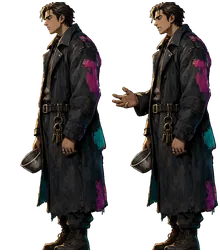
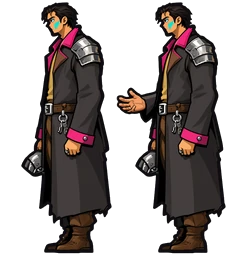
Signal Tower encounters and the Cell guard in the new look (FAL-951) (#160)
* Signal Tower encounters and the Cell guard in the FAL-792 look (FAL-951)

Rollout batch 2 of 5: st-coffee-cart, st-hush-water, st-live-wires,
st-mast-climber, st-numbers-station, st-permit-booth and cell/guard,
every frame. Idles redrawn in the approved ink-and-cel look; talk/bust
redraw only the moving arm on top of the new idle. Frame ids and anims
unchanged; x/w/h/ox/oy re-measured. README updated.

* Signal Tower: live-wires cabinet and a slim mast after the audit (FAL-951)

Live-wires: the junction box is a dark rust iron cabinet again, with the
inked access panel and a flat spark star. Only the box was re-rendered;
the man, cable and arms keep their pixels. Mast-climber: the mast is built
on the CPU at the old width behind the rendered climber, with closed,
filled shapes. Only x, w, h, ox and oy changed in the mast JSON.

---------

diff --git a/assets/journey/README.md b/assets/journey/README.md
@@ -117,13 +117,13 @@ move. Their dialogue portraits are in `assets/portraits/` (see its README).
 | `cast/noma.webp` + `noma.json` | idle 74×220, talk 74×220 | idle [idle] (1), talk [idle, talk] (4, loop) | feet point | 14,582 |
 | `encounters/cell/backdrop.webp` | opaque 864×256 | static | strip origin (0, 0) | 25,926 |
 | `encounters/cell/bars.webp` + `.json` | shut 864×256, loose 864×256, open 864×256 | shut/loose/open, one frame each (1, once) | feet point | 360,974 |
-| `encounters/cell/guard.webp` + `.json` | idle 106×248, talk 106×248 | idle [idle] (1), talk [idle, talk] (4, loop) | feet point | 15,540 |
-| `encounters/st-coffee-cart.webp` + `.json` | idle 203×248, talk 203×248 | idle [idle] (1), talk [idle, talk] (4, loop) | feet point | 24,468 |
-| `encounters/st-hush-water.webp` + `.json` | idle 174×248, talk 174×248, bust 174×248 | idle [idle] (1), talk [idle, talk] (4, loop), bust [bust] (1, once) | feet point | 30,292 |
-| `encounters/st-live-wires.webp` + `.json` | idle 316×248, talk 316×248, bust 316×248 | idle [idle] (1), talk [idle, talk] (4, loop), bust [bust] (1, once) | feet point | 47,693 |
-| `encounters/st-mast-climber.webp` + `.json` | idle 144×248, talk 144×248 | idle [idle] (1), talk [idle, talk] (4, loop) | feet point | 27,899 |
-| `encounters/st-numbers-station.webp` + `.json` | idle 199×248, talk 199×248 | idle [idle] (1), talk [idle, talk] (4, loop) | feet point | 22,476 |
-| `encounters/st-permit-booth.webp` + `.json` | idle 173×248, talk 173×248, bust 173×248 | idle [idle] (1), talk [idle, talk] (4, loop), bust [bust] (1, once) | feet point | 25,456 |
+| `encounters/cell/guard.webp` + `.json` | idle 110×252, talk 110×252 | idle [idle] (1), talk [idle, talk] (4, loop) | feet point | 13,000 |
+| `encounters/st-coffee-cart.webp` + `.json` | idle 207×254, talk 207×254 | idle [idle] (1), talk [idle, talk] (4, loop) | feet point | 29,186 |
+| `encounters/st-hush-water.webp` + `.json` | idle 177×251, talk 177×251, bust 177×251 | idle [idle] (1), talk [idle, talk] (4, loop), bust [bust] (1, once) | feet point | 31,160 |
+| `encounters/st-live-wires.webp` + `.json` | idle 272×252, talk 272×252, bust 272×252 | idle [idle] (1), talk [idle, talk] (4, loop), bust [bust] (1, once) | feet point | 46,972 |
+| `encounters/st-mast-climber.webp` + `.json` | idle 141×252, talk 141×252 | idle [idle] (1), talk [idle, talk] (4, loop) | feet point | 14,358 |
+| `encounters/st-numbers-station.webp` + `.json` | idle 194×251, talk 194×251 | idle [idle] (1), talk [idle, talk] (4, loop) | feet point | 24,890 |
+| `encounters/st-permit-booth.webp` + `.json` | idle 177×251, talk 177×251, bust 177×251 | idle [idle] (1), talk [idle, talk] (4, loop), bust [bust] (1, once) | feet point | 28,240 |
 | `enemies/d1-scavenger.webp` + `d1-scavenger.json` | idle 143×230, step-a 161×225, step-b 144×229, step-c 155×228, attack 212×229, hurt 126×222, defeated 161×223 | idle [idle] (1), walk [step-a, step-b, step-c, idle] (8), attack [attack] (1, once), hurt [hurt] (1, once), defeated [defeated] (1, once) | feet point | 113,653 |
 | `enemies/d2-raider.webp` + `d2-raider.json` | idle 130×244, step-a 141×241, step-b 131×245, step-c 131×242, attack 276×251, hurt 151×221, defeated 228×182 | idle [idle] (1), walk [step-a, step-b, step-c, idle] (8), attack [attack] (1, once), hurt [hurt] (1, once), defeated [defeated] (1, once) | feet point | 105,533 |
 | `enemies/d3-enforcer.webp` + `d3-enforcer.json` | idle 174×240, step-a 180×238, step-b 174×239, step-c 176×239, attack 178×273, hurt 221×229, s2 174×239, s2-attack 166×223, defeated 198×210 | idle [idle] (1), walk [step-a, step-b, step-c, idle] (8), attack [attack] (1, once), hurt [hurt] (1, once), defeated [defeated] (1, once), s2-idle [s2] (1), s2-attack [s2-attack] (1, once) | feet point | 151,218 |
@@ -194,3 +194,16 @@ batch lands, that sheet is still in the painted style.
 - Batch 1, FAL-827: Bodge, the Bazaar store owner, in `game/assets/bazaar/shopkeeper.png` and
   `shopkeeper-idle.png` (not a journey sheet). The files are the ones Studio Manager accepted on FAL-794, copied
   unchanged: 512×512 RGBA, one alpha island, and the idle frame changes only the loupe eye (1778 px, alpha identical).
+- Batch 2, FAL-951 (restart of FAL-828): the six Signal Tower encounters (`st-coffee-cart`, `st-hush-water`,
+  `st-live-wires`, `st-mast-climber`, `st-numbers-station`, `st-permit-booth`) and the Cell guard
+  (`encounters/cell/guard`), every frame. `cell/backdrop` and `cell/bars` are scenery and keep the painted finish.
+  Each idle is the old idle redrawn in the new look; talk and bust are the new idle with only the moving arm redrawn,
+  so everything outside the arm is the same pixels in every frame of a sheet. Frame ids, anims and the feet-point
+  convention are unchanged; only `x`, `w`, `h`, `ox`, `oy` were re-measured (heights 248 → 251-254 px). Live-wires
+  is 272 px wide instead of 316 because the old painted ground patch is gone; a short inked cable from his boot to
+  the junction box keeps the frame one piece. The coffee seller's apron is one solid brown.
+  After the audit: the live-wires box is a square-cornered dark rust iron cabinet again, with its inked access
+  panel and a flat yellow/white spark star on the side facing him (only the box was re-rendered; the man, cable and
+  arms are the same pixels). The mast-climber's mast is drawn on the CPU behind the rendered climber, at the old
+  mast's width and positions: a slim pole and back rail in one steel grey with one shadow tone, and the boxes,
+  panels and cable runs as closed, filled, inked shapes.
